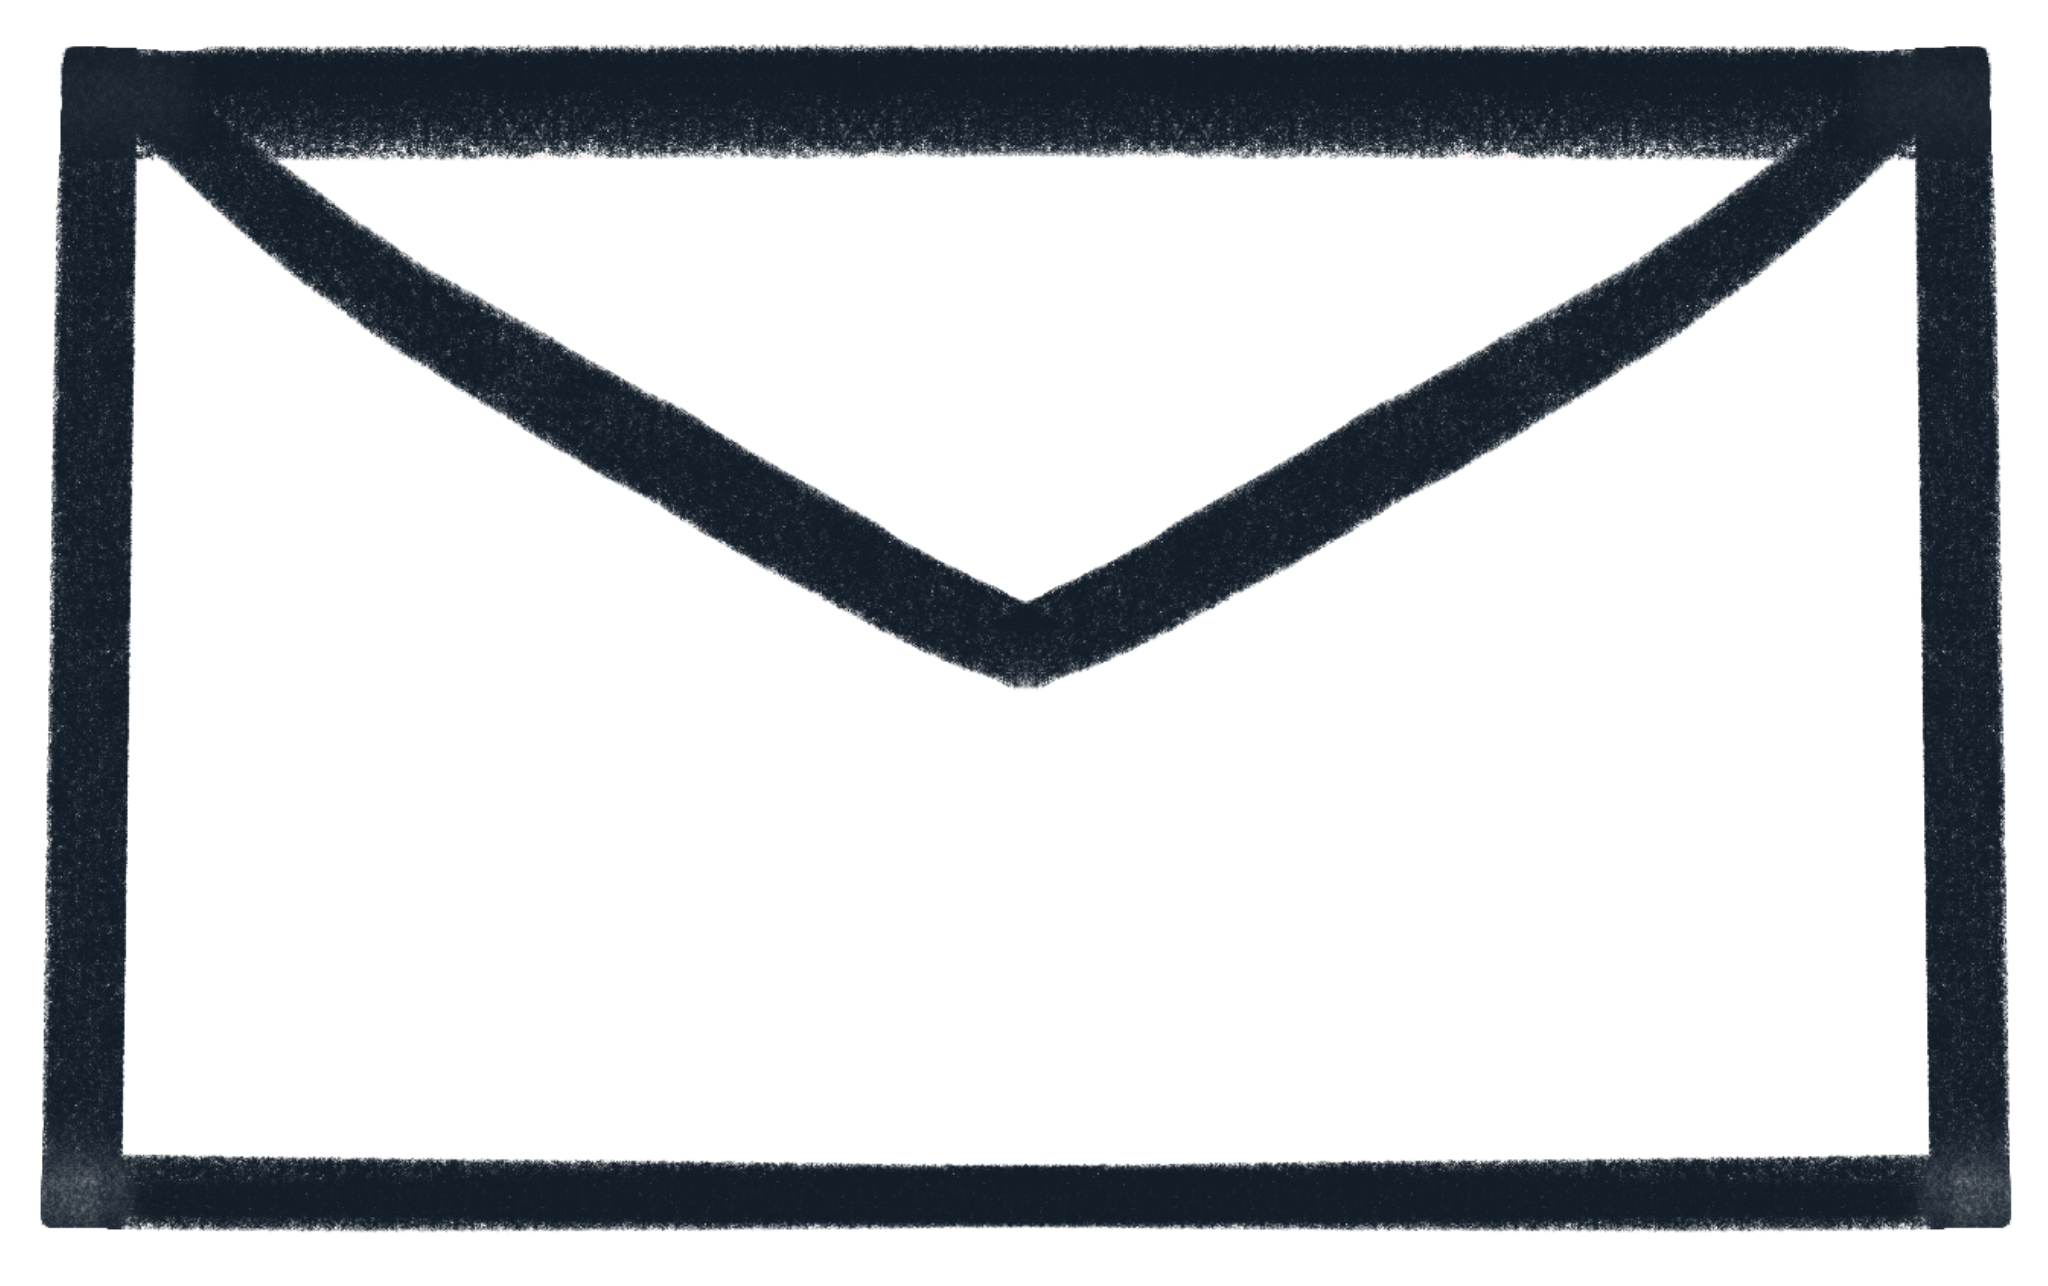
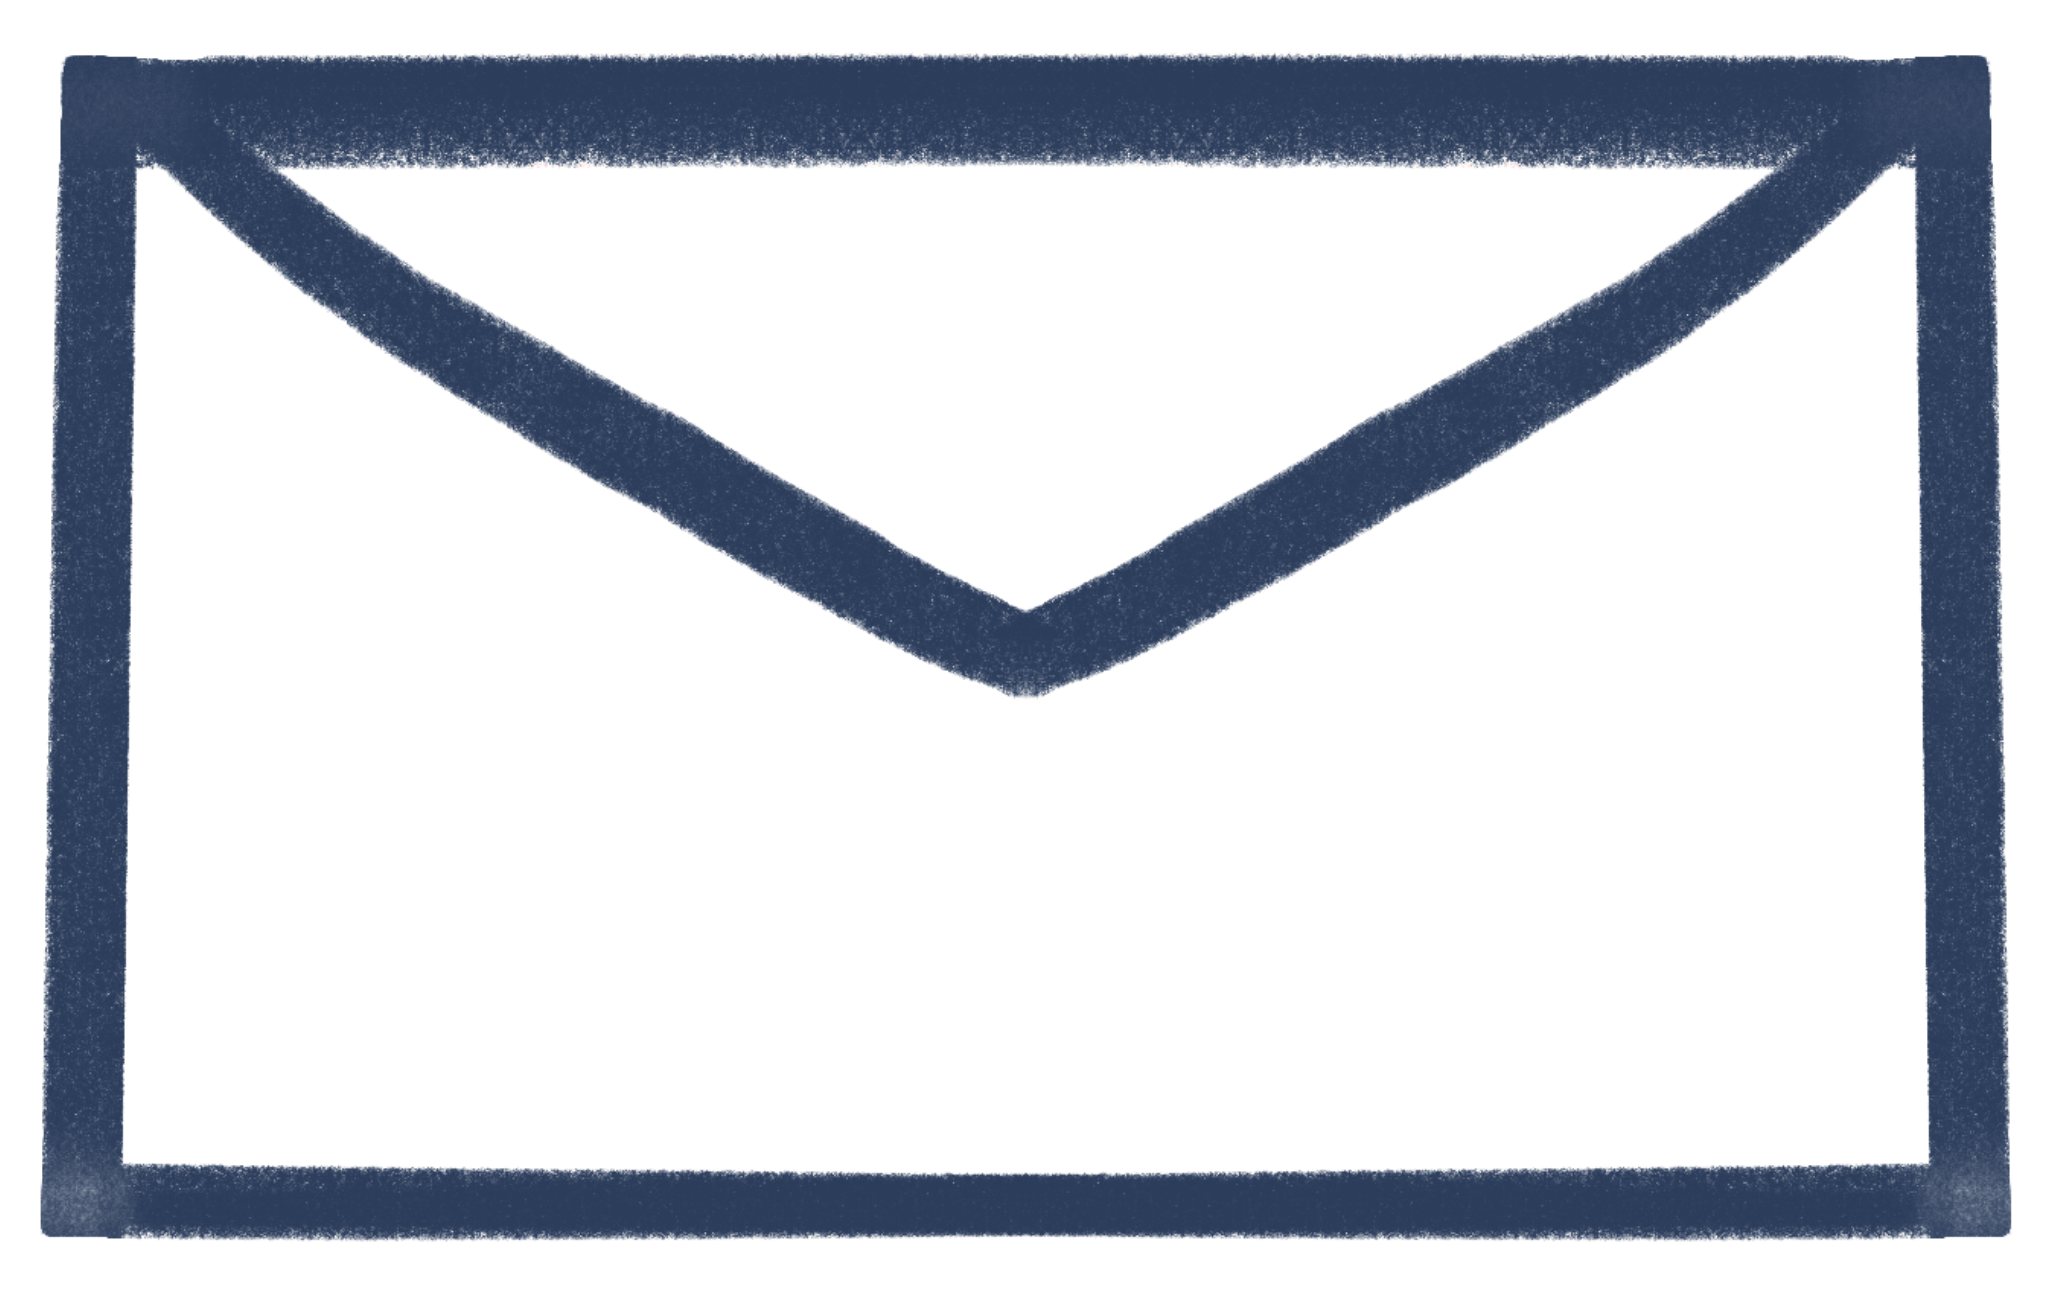
styling contact footer

Changed region(s): [[0.0, 0.0311, 1.0, 0.9642]]

diff --git a/src/Pages/CSS/iB.css b/src/Pages/CSS/iB.css
@@ -349,58 +349,6 @@ li {
     height: 44vh;
 }
 
-#iB-sk1 {
-    grid-column: 4 / span 1;
-    grid-row-start: 1;
-    grid-row-end: span 1;
-    background-image: url('../../Assets/IB_Assets/IB-Vis-Sketch1.jpg');
-    background-size: contain;
-    background-repeat: no-repeat;
-    background-position: center;
-    width: 42vw;
-    height: 44vh;
-    border: 3px solid #cdefab;
-}
-
-#iB-sk2 {
-    grid-column: 1 / span 2;
-    grid-row-start: 3;
-    grid-row-end: span 1;
-    background-image: url('../../Assets/IB_Assets/IB-Vis-Sketch2.jpg');
-    background-size: contain;
-    background-repeat: no-repeat;
-    background-position: center;
-    width: 42vw;
-    height: 44vh;
-    border: 3px solid #efabcd;
-}
-
-#iB-sk3 {
-    grid-column: 4 / span 1;
-    grid-row-start: 3;
-    grid-row-end: span 1;
-    background-image: url('../../Assets/IB_Assets/IB-Vis-Sketch3.jpg');
-    background-size: contain;
-    background-repeat: no-repeat;
-    background-position: center;
-    width: 42vw;
-    height: 44vh;
-    border: 3px solid #bcdefa;
-}
-
-#iB-sk4 {
-    grid-column: 1 / span 2;
-    grid-row-start: 5;
-    grid-row-end: span 1;
-    background-image: url('../../Assets/IB_Assets/IB-Vis-It4.png');
-    background-size: contain;
-    background-repeat: no-repeat;
-    background-position: center;
-    width: 42vw;
-    height: 44vh;
-    border: 3px solid #defabc;
-}
-
 #iBhome {
     width: 70vw;
     display: block;
@@ -448,12 +396,14 @@ li {
 }
 
 #chosen-concept {
-    max-width: 72vw;
+    max-width: 97%;
     margin-top: 1.5%;
-    border: 1vw solid #C4DFEC;
+    border: 3px solid #39536C;
     border-radius: 10px;
-    padding: 2vw;
-    filter: drop-shadow(0 6mm 4mm #e2e2e2)
+    padding: 0.5%;
+    filter: drop-shadow(0 6mm 4mm #e2e2e2);
+    margin-left: auto;
+    margin-right: auto;
 }
 
 .testDetailIcons {
@@ -670,7 +620,7 @@ a:hover {
 }
 
 .concepts {
-    max-width: 80vw;
+    max-width: 100%;
     margin-left: auto;
     margin-right: auto;
 }

diff --git a/src/Pages/JS/iB.js b/src/Pages/JS/iB.js
@@ -84,7 +84,8 @@ export default function IncognitoBreathing() {
                             <img className="concept" src={IbConcept1} alt="" />
                             <img className="concept" src={IbConcept2} alt="" />
                         </div>
-                        <img id="chosen-concept" src={IbConcept3} alt="" />    
+                        <img id="chosen-concept" src={IbConcept3} alt="" /> 
+                         
                     </div>
 
                     <div className="written-content">
@@ -118,12 +119,16 @@ export default function IncognitoBreathing() {
                                 <source src={IbIt2} type="video/mp4" />
                             </video>
                         </div>
+    
                     </div>
 
                     <div className="video-section-2">
                         <video className="vid" controls muted autoPlay>
                             <source src={IbIt4} type="video/mp4" />
                         </video>
+                    </div>
+                    <div className="written-content">
+                        <p>The most successful example had a clear bubble moving from left to right at the top of the window. This warped the image enough for users to see the bubble and follow along with it. Left to right seemed to work best for inhaling and exhaling rather than vertically, or non-directional.</p>
                     </div>
 
                     <div className="written-content">

diff --git a/src/Components/JS/contact-footer.js b/src/Components/JS/contact-footer.js
@@ -7,20 +7,20 @@ import Insta from '../../Assets/insta.png';
 
 export default function ContactFooter() {
     return (
-        <div className="contactFooter">
-
-            <div className="contact-blurb">
-                <h3 className="contact">Whakapā mai!</h3>
-                <p>Contact me with any opportunities, or to say hey 🙋🏻♀ </p>
-                <div className="contact-links">
-                    <Link to="/about" id="about">
-                        <img className="contact-icon" src={Contact} alt="envelope icon" />
-                    </Link> 
-                    <a href="https://www.instagram.com/"><img className="contact-icon" src={Insta}></img></a>
+        <div>
+            <hr className="footer-hr"></hr>
+            <div className="contactFooter">
+                <div className="contact-blurb">
+                    <h3 className="contact">Whakapā mai!</h3>
+                    <p id="footer-text">Contact me with any opportunities, or to say hey 🙋🏻♀ </p>
+                    <div className="contact-links">
+                        <Link to="/about" id="about">
+                            <img className="contact-icon" src={Contact} alt="envelope icon" />
+                        </Link> 
+                        <a href="https://www.instagram.com/"><img className="contact-icon" src={Insta}></img></a>
+                    </div>
                 </div>
             </div>
-            
-
         </div>
     )
 }

diff --git a/src/Components/CSS/contact-footer.css b/src/Components/CSS/contact-footer.css
@@ -12,7 +12,17 @@
     margin-left: auto;
     margin-right: auto;
     width: 30vw;
-    margin-top: 7%;
+    margin-top: 4%;
+}
+
+.footer-hr {
+    width: 93%;
+    margin-top: 5%;
+    border: 0;
+    height: 0;
+    border-top: 1px solid rgba(253, 154, 154, 0.815);
+    border-bottom: 1px solid rgba(255, 255, 255, 0.3)
+    /* border: thin solid rgb(44, 61, 92); */
 }
 
 .contact-blurb {
@@ -28,6 +38,12 @@
     margin-left: auto;
     margin-right: auto;
     margin-bottom: 0;
+    color: rgb(44, 61, 92);
+}
+
+#footer-text {
+    color: rgb(44, 61, 92);
+    margin-top: 1%;
 }
 
 .contact-links {
@@ -50,3 +66,4 @@
     transition: all .05s ease-in-out;
     filter: drop-shadow(0 2mm 2mm #f0fbff73);
 }
+

diff --git a/src/Pages/CSS/df.css b/src/Pages/CSS/df.css
@@ -32,13 +32,13 @@
 /* HEADINGS */
 
 #df-heading {
-    color: #241F38;
+    color: #2d2257;
 }
 
 #page-df h2 {
     font-family: 'HK Grotesk Bold', sans-serif;
     font-size: 22px;
-    color: #241F38;;
+    color: #2d2257;;
     margin-top: 1.5%;
     margin-bottom: 0;
 }
